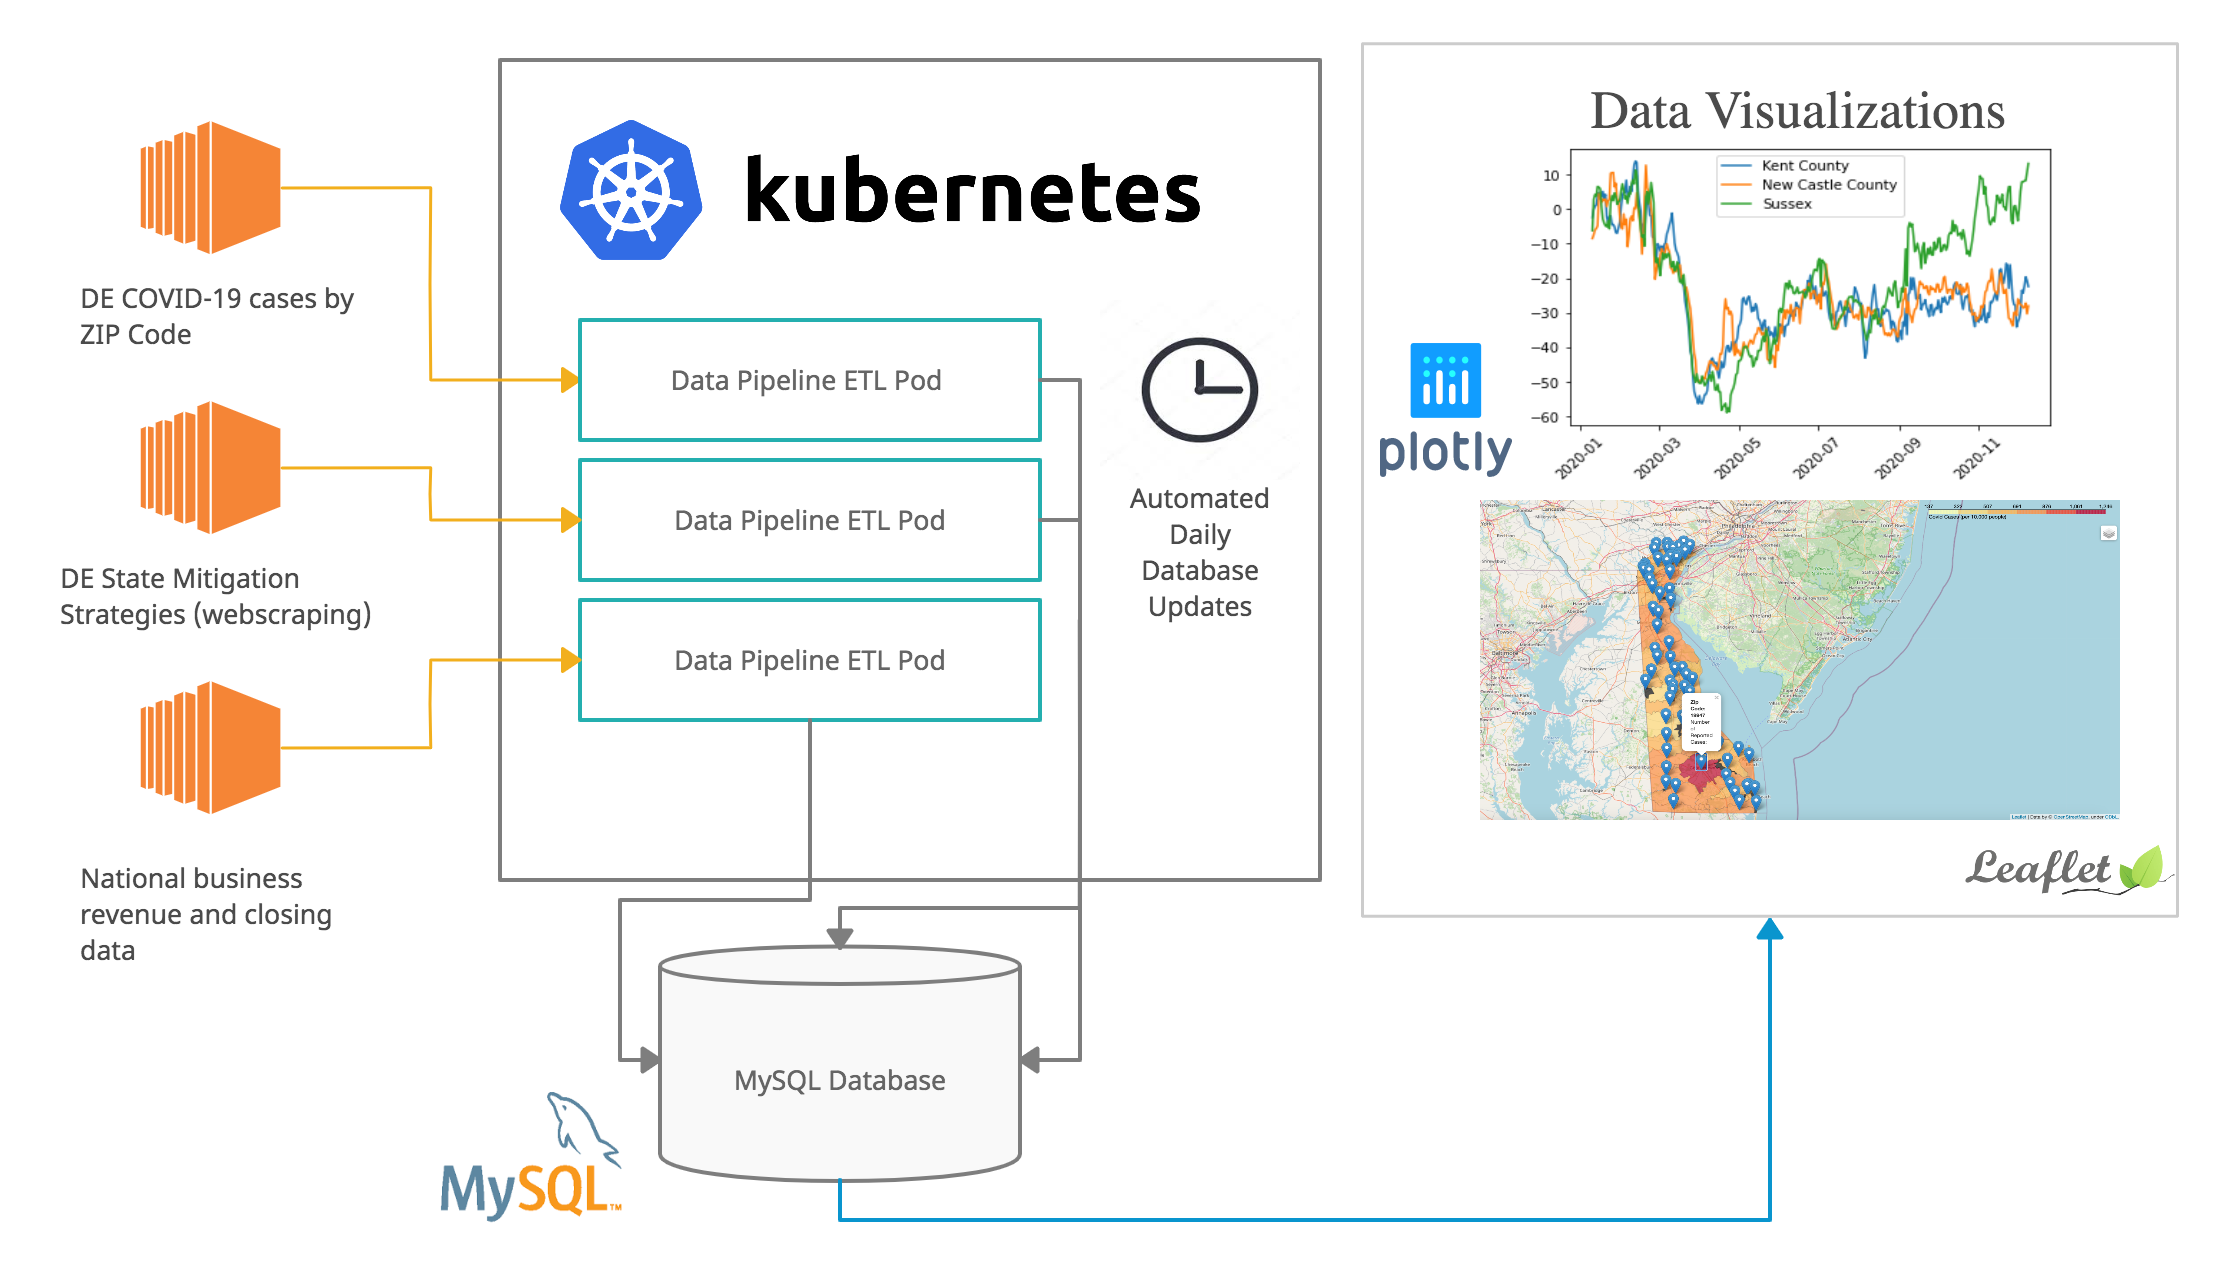
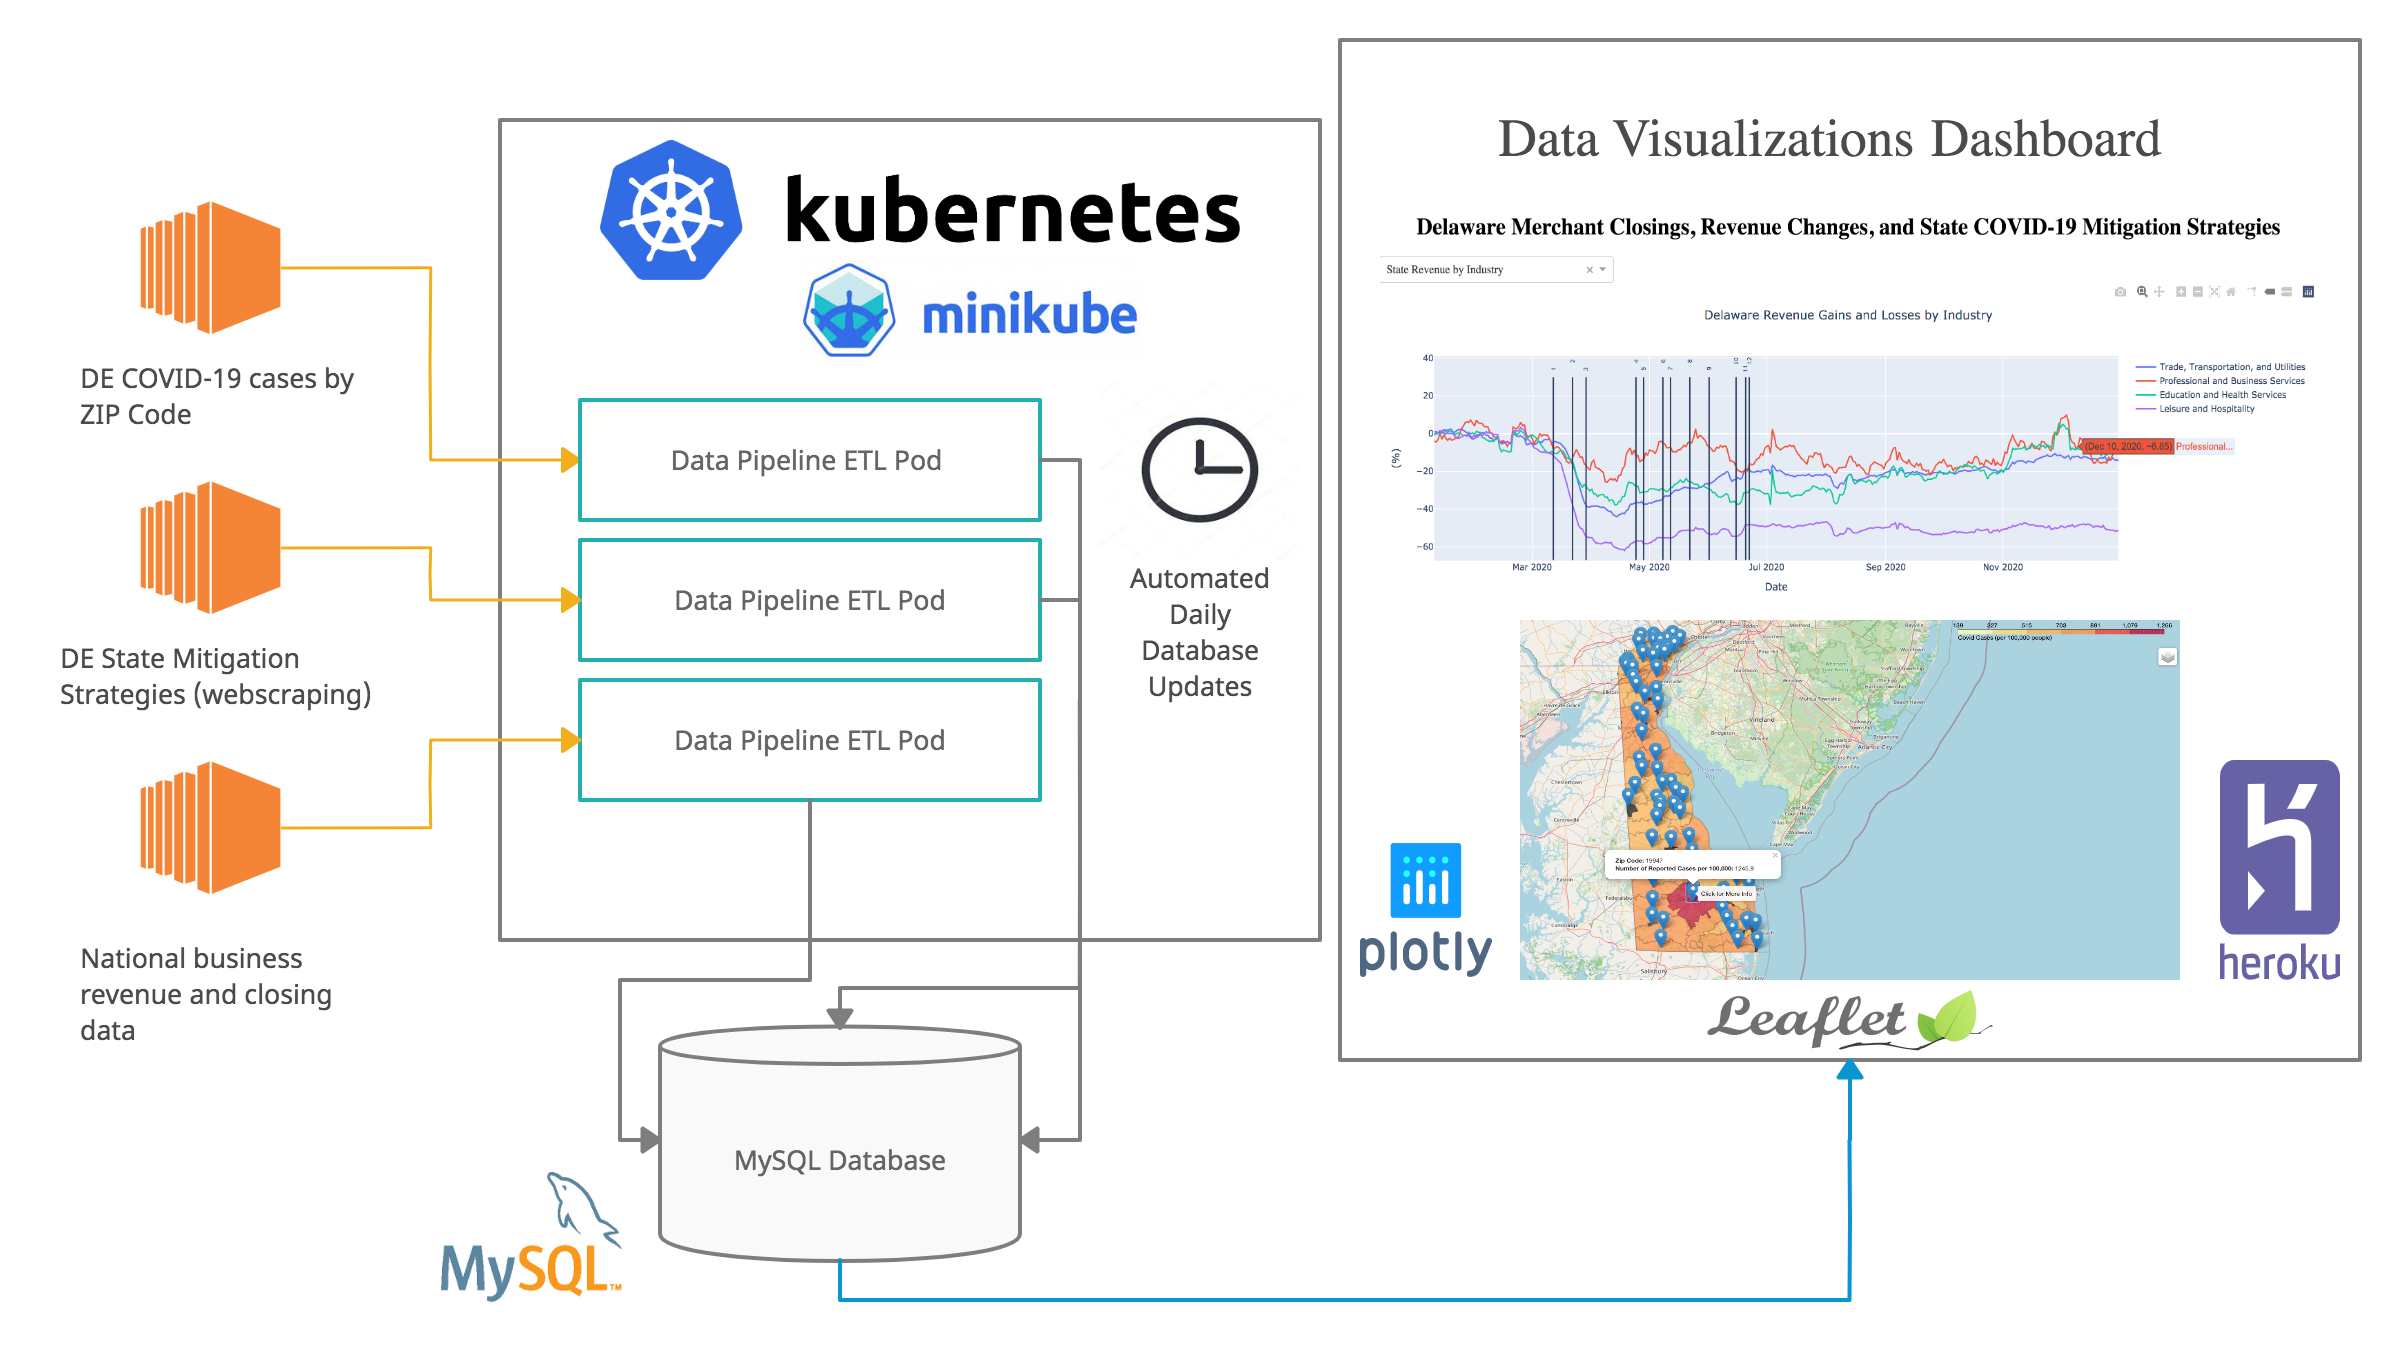
updated readme, moved Data Exploration to data folder

Changed region(s): [[0.0311, 0.0, 0.9946, 0.9804]]

diff --git a/README.md b/README.md
@@ -1,7 +1,7 @@
 # DE_COVID_small_business_project
 
 ## About
-This project is to explore the correlations between Delaware State COVID restrictions and small business closures and loss in revenue. In addition, this project illustrates Delaware COVID case counts by ZIP code.
+This project was designed to explore the correlations between Delaware State COVID restrictions and small business closures and loss in revenue. In addition, this project illustrates Delaware COVID case counts by ZIP code as well as predict tomorrow's COVID case counts.
 
 ## How it works:
 ![](images/Delaware_Covid_Business_Project.png)
@@ -17,9 +17,26 @@ This project is to explore the correlations between Delaware State COVID restric
 * Python
 * AWS Lightsail MySQL database
 * Pandas
-* Kubernetes (minikube) 
+* Kubernetes (minikube)
+* Docker 
 * Folium
+* Plotly
+* Dash
 * Jupyter Notebook
+
+## Deploying Pipelines on Kubernetes:
+![](images/Minikube_Dashboard.png)
+For this project, we decided to utilize Kubernetes to automate our data updates. Since we have three separate data pipelines that retrieve, clean, and store data from three separate sources,deploying our pipelines as pods in Minikube has a variety of benefits:
+* Easy to Edit and Scale:
+    * For each pipeline, we created a Docker image that has all the instructions to create a container with the right environment for our pipeline to run and the command to run it.
+    Edits to our pipelines themselves are as simple as removing a Docker image, editing the Python file, 
+    and building the Docker image again. Adding new pipelines are as easy as creating and building a Docker image and writing a Kubernetes yaml file. 
+* Pod Deployment as Tasks:
+    * Because Kubernetes pods are designed to be easily created and destroyed, the deployment of our pods themselves run our pipelines. 
+    Once our pods have been deployed, they have fulfilled their duty and the database has been updated.  
+* Easily Orchestrated and Automated:
+    * Our system is automated through Kubernetes Cron Jobs. The deployment of our pods are written as Cron Job yaml files which have a schedule for deployment. 
+    Every day, a job for each pipeline is created which, in turn, deploys a new pod and destroys yesterday’s pod.
 ### Data from:
 #### Covid Case Data
 https://myhealthycommunity.dhss.delaware.gov/locations/state
